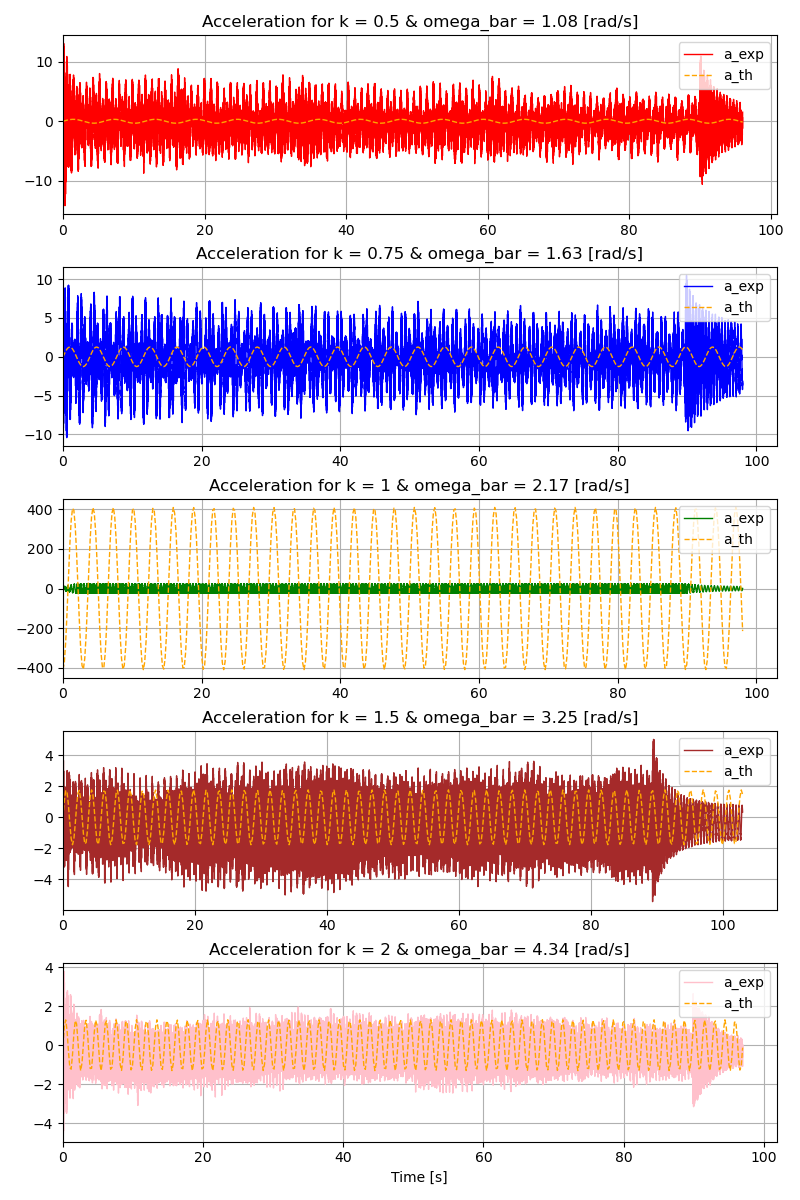
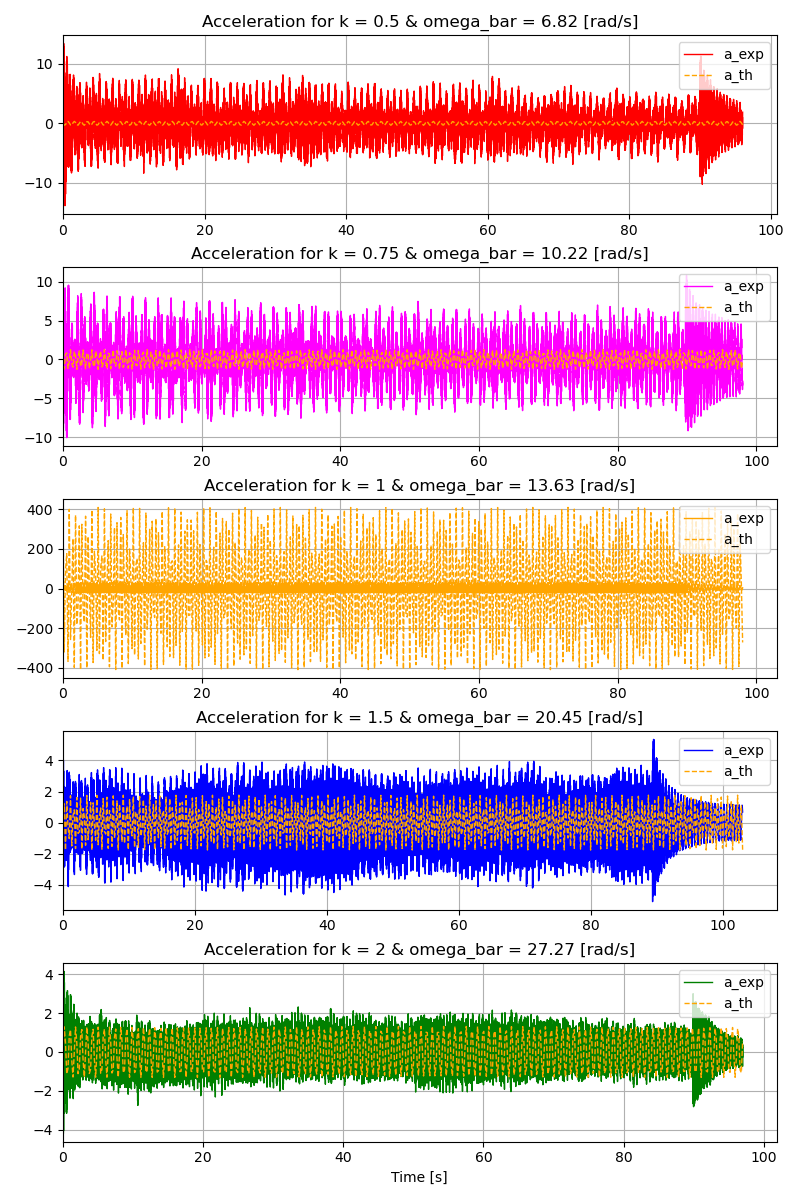
Ajout Plots 2.2

diff --git a/Part_22_23.py b/Part_22_23.py
@@ -7,7 +7,15 @@ import Part1_Free_vibration as part1
 from Part1_Free_vibration import Signal
 import part_2_1 as part21
 
-
+def remove_idx(lst, idx):
+    new_lst = np.zeros_like(lst, shape=len(lst)-1)
+    i = 0 ; j = 0
+    while i < len(lst):
+        if i != idx:
+            new_lst[j] = lst[i]
+            j += 1
+        i += 1
+    return new_lst
 
 def processing_data_exp(data_ks, ks):
     m = len(data_ks)
@@ -18,6 +26,7 @@ def processing_data_exp(data_ks, ks):
 
         t = np.array(data_ks[i]['time'])
         a = np.array(data_ks[i]['x'])
+        a = a - np.mean(a) # Center signal
         t = t - t[0]
 
         signal_a_exp = Signal(a, t)
@@ -66,7 +75,7 @@ def compute_steady_state_k_val(k_val, n, t_max):
 
     return us_th, as_th
 
-def plot_analytic_steady_state(us_th, as_th, k_val, colours):
+def plot_analytic_steady_state(us_th, as_th, k_val, colours, title=""):
     m = len(k_val)
 
     if showPlot2:
@@ -90,11 +99,11 @@ def plot_analytic_steady_state(us_th, as_th, k_val, colours):
         plt.tight_layout()
         plt.subplots_adjust(hspace=0.3)  # space between plot
         if saveFig2:
-            plt.savefig(f"{repository}/Q2.2_Steady_state_response.png")
+            plt.savefig(f"{repository}/Q2.2_Steady_state_response{title}.png")
         plt.show()
 
 
-        # 2. Plot acceleration and displcement for different k_val
+        # 2. 2 plots of the acceleration and the displcement for different k_val
         fig, axes = plt.subplots(nrows=2, ncols=1, figsize=(8, 6))
         axes[0].set_title(f'Harmonic loading - analytical response (omega_n = {omega} [rad/s])')
         axes[0].set_xlabel("Time, t [s]")
@@ -108,6 +117,7 @@ def plot_analytic_steady_state(us_th, as_th, k_val, colours):
             axes[1].plot(as_th[i].t, as_th[i].u, label=f"k={k_val[i]}", color=colours[i], lw=1)
 
         for axe in axes:
+            axe.set_ylim(top=3, bottom=-3)
             axe.set_xlim(left=0)
             axe.legend(loc='upper right')
             axe.grid()
@@ -115,7 +125,7 @@ def plot_analytic_steady_state(us_th, as_th, k_val, colours):
         plt.tight_layout()
         plt.subplots_adjust(hspace=0.3)  # space between plot
         if saveFig2:
-            plt.savefig(f"{repository}/Q2.2_Steady_state_response_compare_k_val.png")
+            plt.savefig(f"{repository}/Q2.2_Steady_state_response_compare_k_val{title}.png")
         plt.show()
 
     return us_th, as_th
@@ -153,6 +163,21 @@ def plot_compare_th_exp(k_val, n, data_exp, data_exp_length, colours):
             plt.savefig(f"{repository}/Q2.2_compare_steady_state_with_exp.png")
         plt.show()
 
+
+def plot_freq_response_curve_compare_exp_th(k_val, amplitude_th, amplitude_exp, ylim=None, title=""):
+    plt.figure(figsize=(8,6))
+    plt.plot(k_val, amplitude_exp, label="Experimental", color="blue", marker='o')
+    plt.plot(k_val, amplitude_th, label="Theorical", color="orange", marker='o')
+    plt.ylim(0, ylim)
+
+    plt.title("Comparison of the frequency response curve")
+    plt.xlabel(r'Frequancy ratio, \frac{\bar\omega } {\omega}')
+    plt.ylabel('Maximum amplitude')
+    plt.grid()
+    plt.legend()
+    if showPlot2:
+        plt.savefig(f"{repository}/Q2.2_Compare_freq_response_curve{title}.png")
+    plt.show()
 
 
 def Duhamel(a0, tp, n, t_max):
@@ -221,15 +246,13 @@ def plot_Duhamel(a_abs, a_g, a_rel, v_rel, u_rel):
             plt.savefig(f"{repository}/Q2.3_Duhamel_response.png")
         plt.show()
 
-    return
-
 
 
 
 # ========== PARAMETERS ==========
 repository = "Figures"
 showPlot2 = False
-saveFig2 = False
+saveFig2 = True
 
 g = 9.81  # [m/s²]
 a_g0 = 0.1 * g # [m/s²]
@@ -265,14 +288,28 @@ signals_exp, data_exp_length = processing_data_exp(data_ks, ks)
 
 # ========== Q2.2 Analytical steady-state response ==========
 print("\n=== Q2.2 ===")
-k_val = [0.5, 0.75, 1, 1.5, 2] # index such that omega_bar = k_val * omega_n
-colours = ['red', 'blue', 'green', 'brown', 'pink']
-t_max = 120
-n = int( (t_max/T) * 10 ) # Nb points for the analytical signals
 
+k_val = [0.5, 0.75, 1, 1.5, 2] # index such that omega_bar = k_val * omega_n
+colours = ['red', 'magenta', 'orange', 'blue', 'green']
+t_max = 5
+n = int( (t_max/T) * 50 ) # Nb points for the analytical signals
+
+# ----- 1. Calculate steady-state for diff k_val -----
 us_th, as_th = compute_steady_state_k_val(k_val, n, t_max)
-plot_analytic_steady_state(us_th, as_th, k_val, colours=colours)
+
+# ----- 2. Plot steady-state response (acc/disp and all k_val) with and without k=1  -----
+plot_analytic_steady_state(us_th, as_th, k_val, colours=colours, title="")
+plot_analytic_steady_state(remove_idx(us_th, 2), remove_idx(as_th, 2), remove_idx(k_val, 2), colours=remove_idx(colours, 2), title="_without_k3")
+
+# ----- 3. Compare exp and th acceleration response -----
 plot_compare_th_exp(k_val, n, signals_exp, data_exp_length, colours)
+
+# ----- 4. Compute and compare frequency response curve for exp and th response -----
+amplitude_th = [ np.max(as_th[i].u) for i in range(len(as_th)) ]
+amplitude_exp = [ np.max(signals_exp[i].u) for i in range(len(signals_exp)) ]
+plot_freq_response_curve_compare_exp_th(k_val, amplitude_th, amplitude_exp)
+plot_freq_response_curve_compare_exp_th(k_val, amplitude_th, amplitude_exp, ylim=20, title="_without_k3")
+
 
 # ========== Q2.3 Duhamel’s integral ==========
 print("\n=== Q2.3 ===")
@@ -281,7 +318,7 @@ print(f"Impulse amplitude, a0 = {a0} [g] ; Impulse period, tp = {tp} [s]")
 t_max = 10 #[s]
 n = int( (t_max/tp)*10 )
 a_abs, a_g, a_rel, v_rel, u_rel = Duhamel(a0, tp, n, t_max)
-#plot_Duhamel(a_abs, a_g, a_rel, v_rel, u_rel)
+plot_Duhamel(a_abs, a_g, a_rel, v_rel, u_rel)
 
 
 

diff --git a/Part1_Free_vibration.py b/Part1_Free_vibration.py
@@ -353,7 +353,7 @@ def plot_natural_freq(ax, T_values, peaks, troughs):
         plt.grid()
         plt.legend()
         if showPlot:
-            print("\tPLOT - natural_freq - 1")
+            plt.savefig("Figures/Q1.4_peak_throughs.png")
         plt.show()
 
         # Histogram of T values
@@ -645,6 +645,9 @@ params_Part1 = {"k": k,
                 "T": T_th,
                 "xi": None,
                 "c": None}
+
+if __name__ == "__main__":
+    showPlot = True
 
 print("============================")
 print("========== PART 1 ==========")
